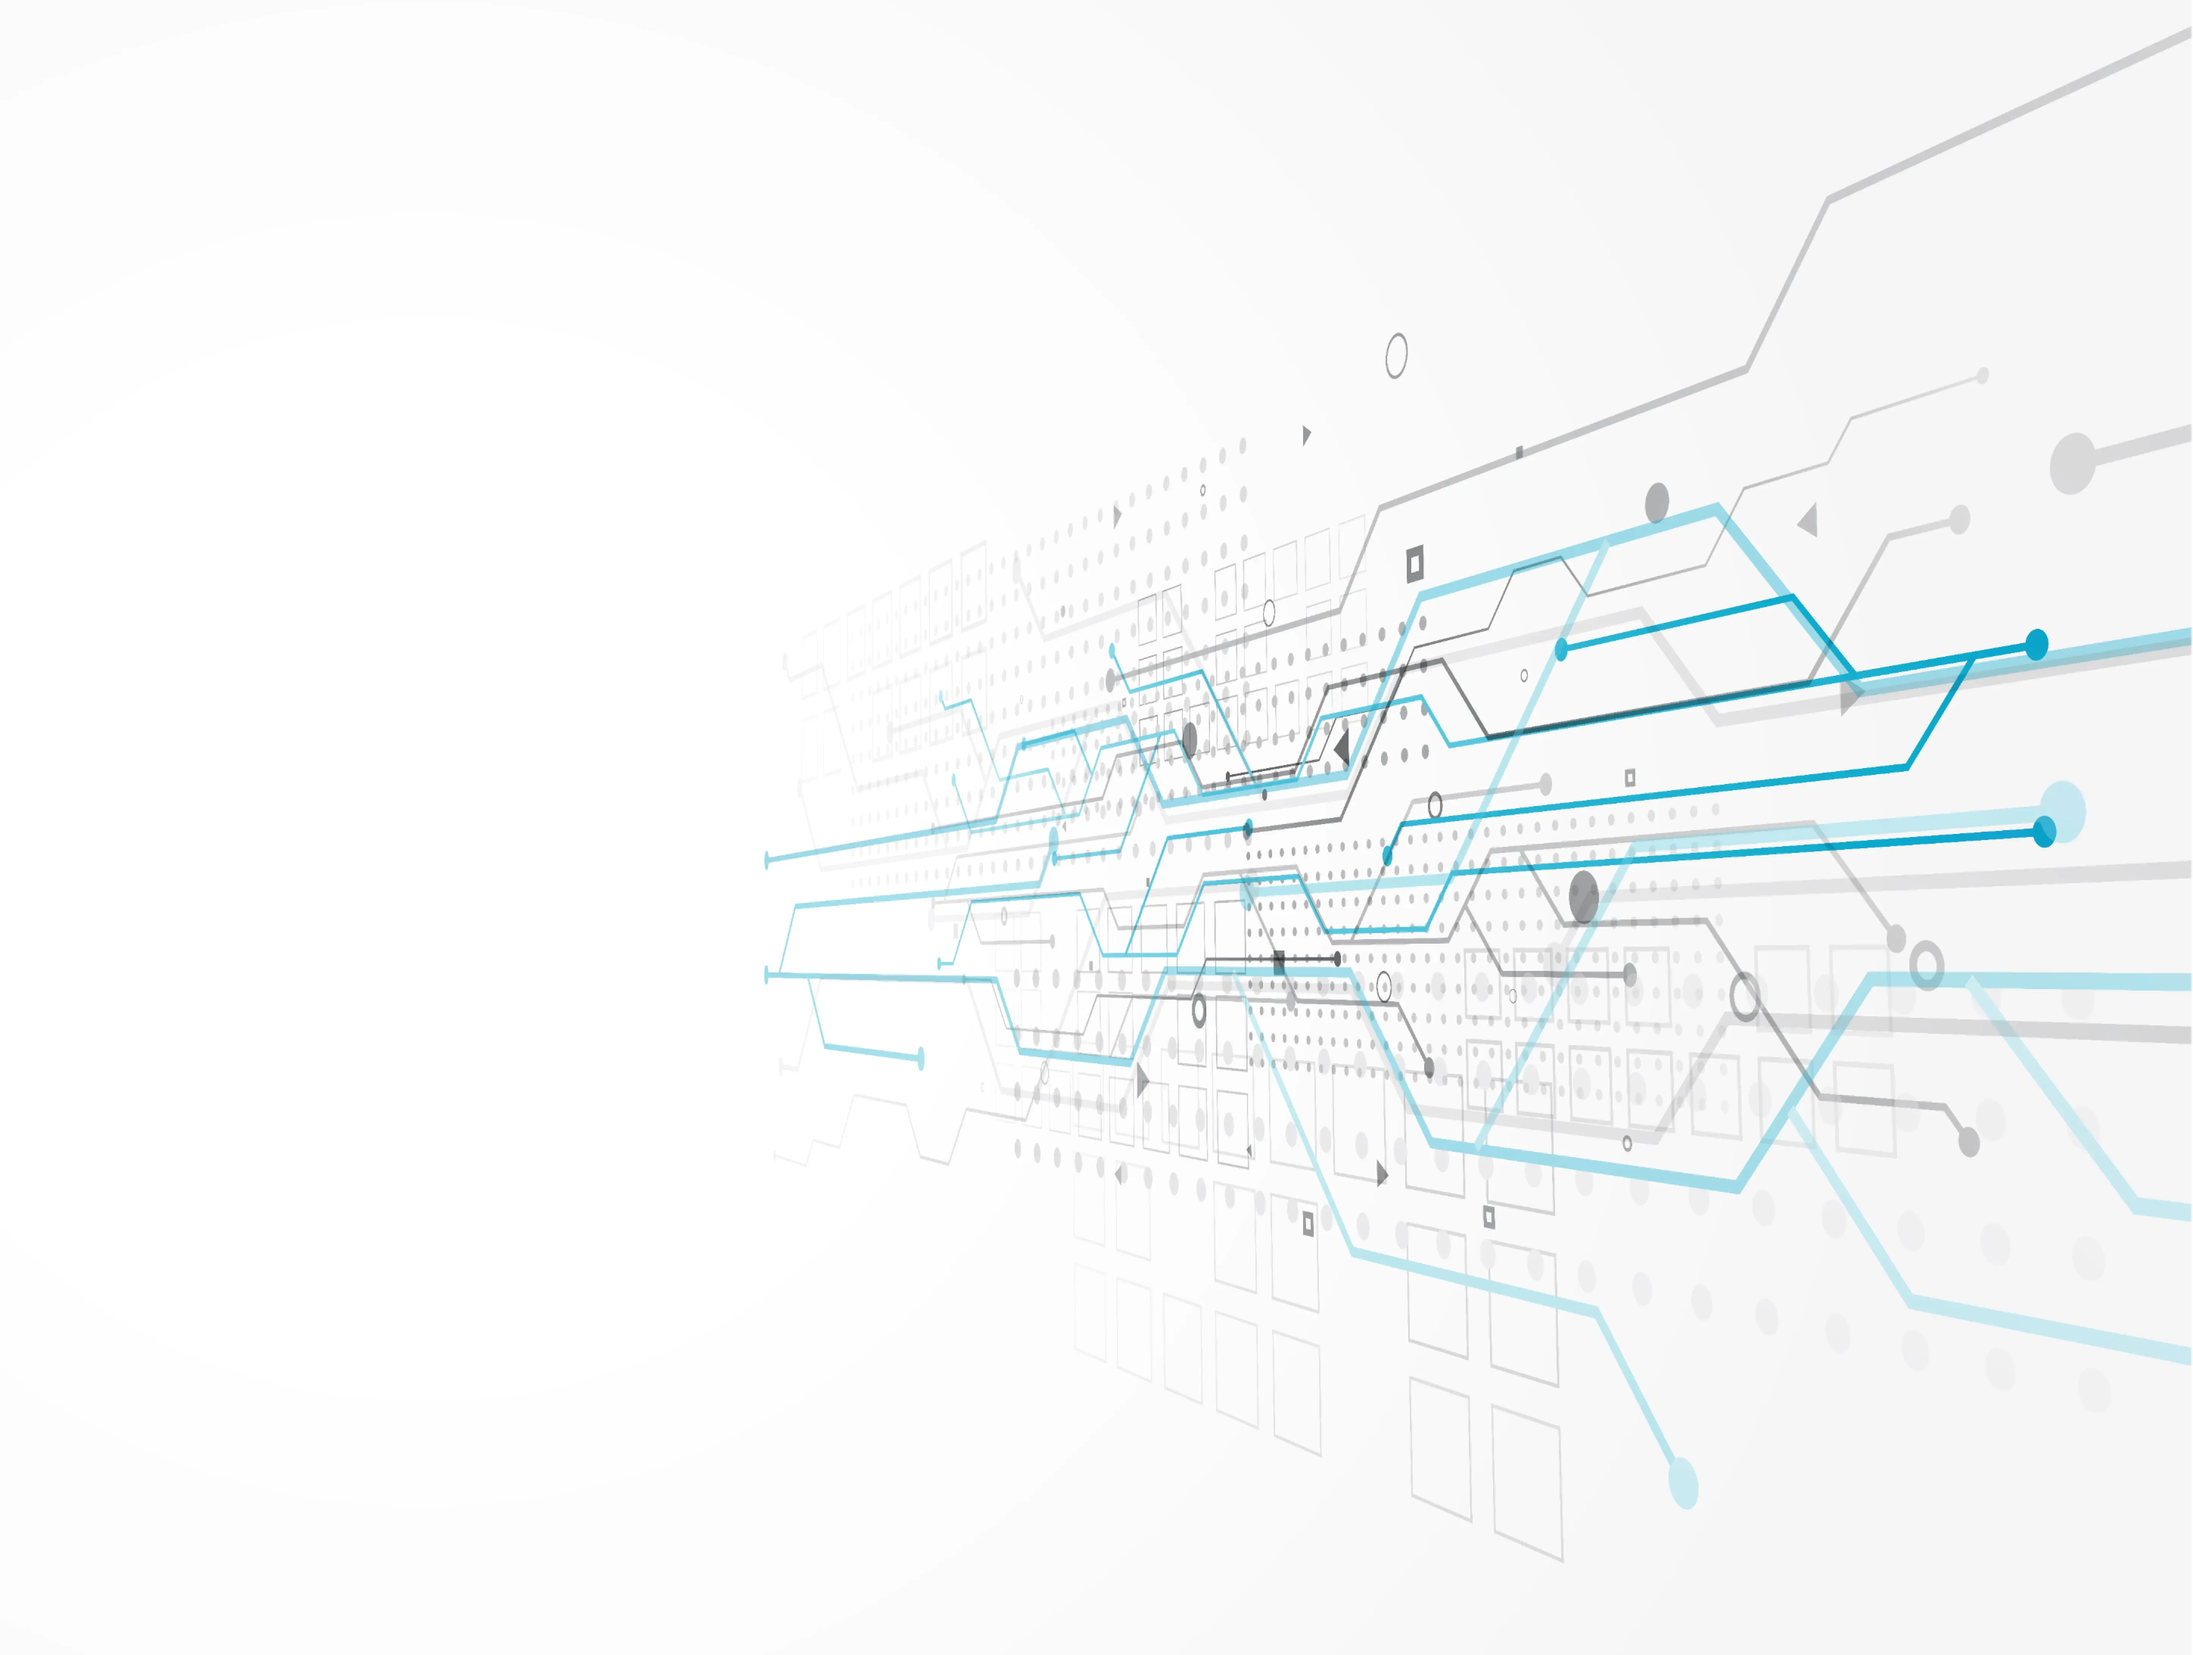
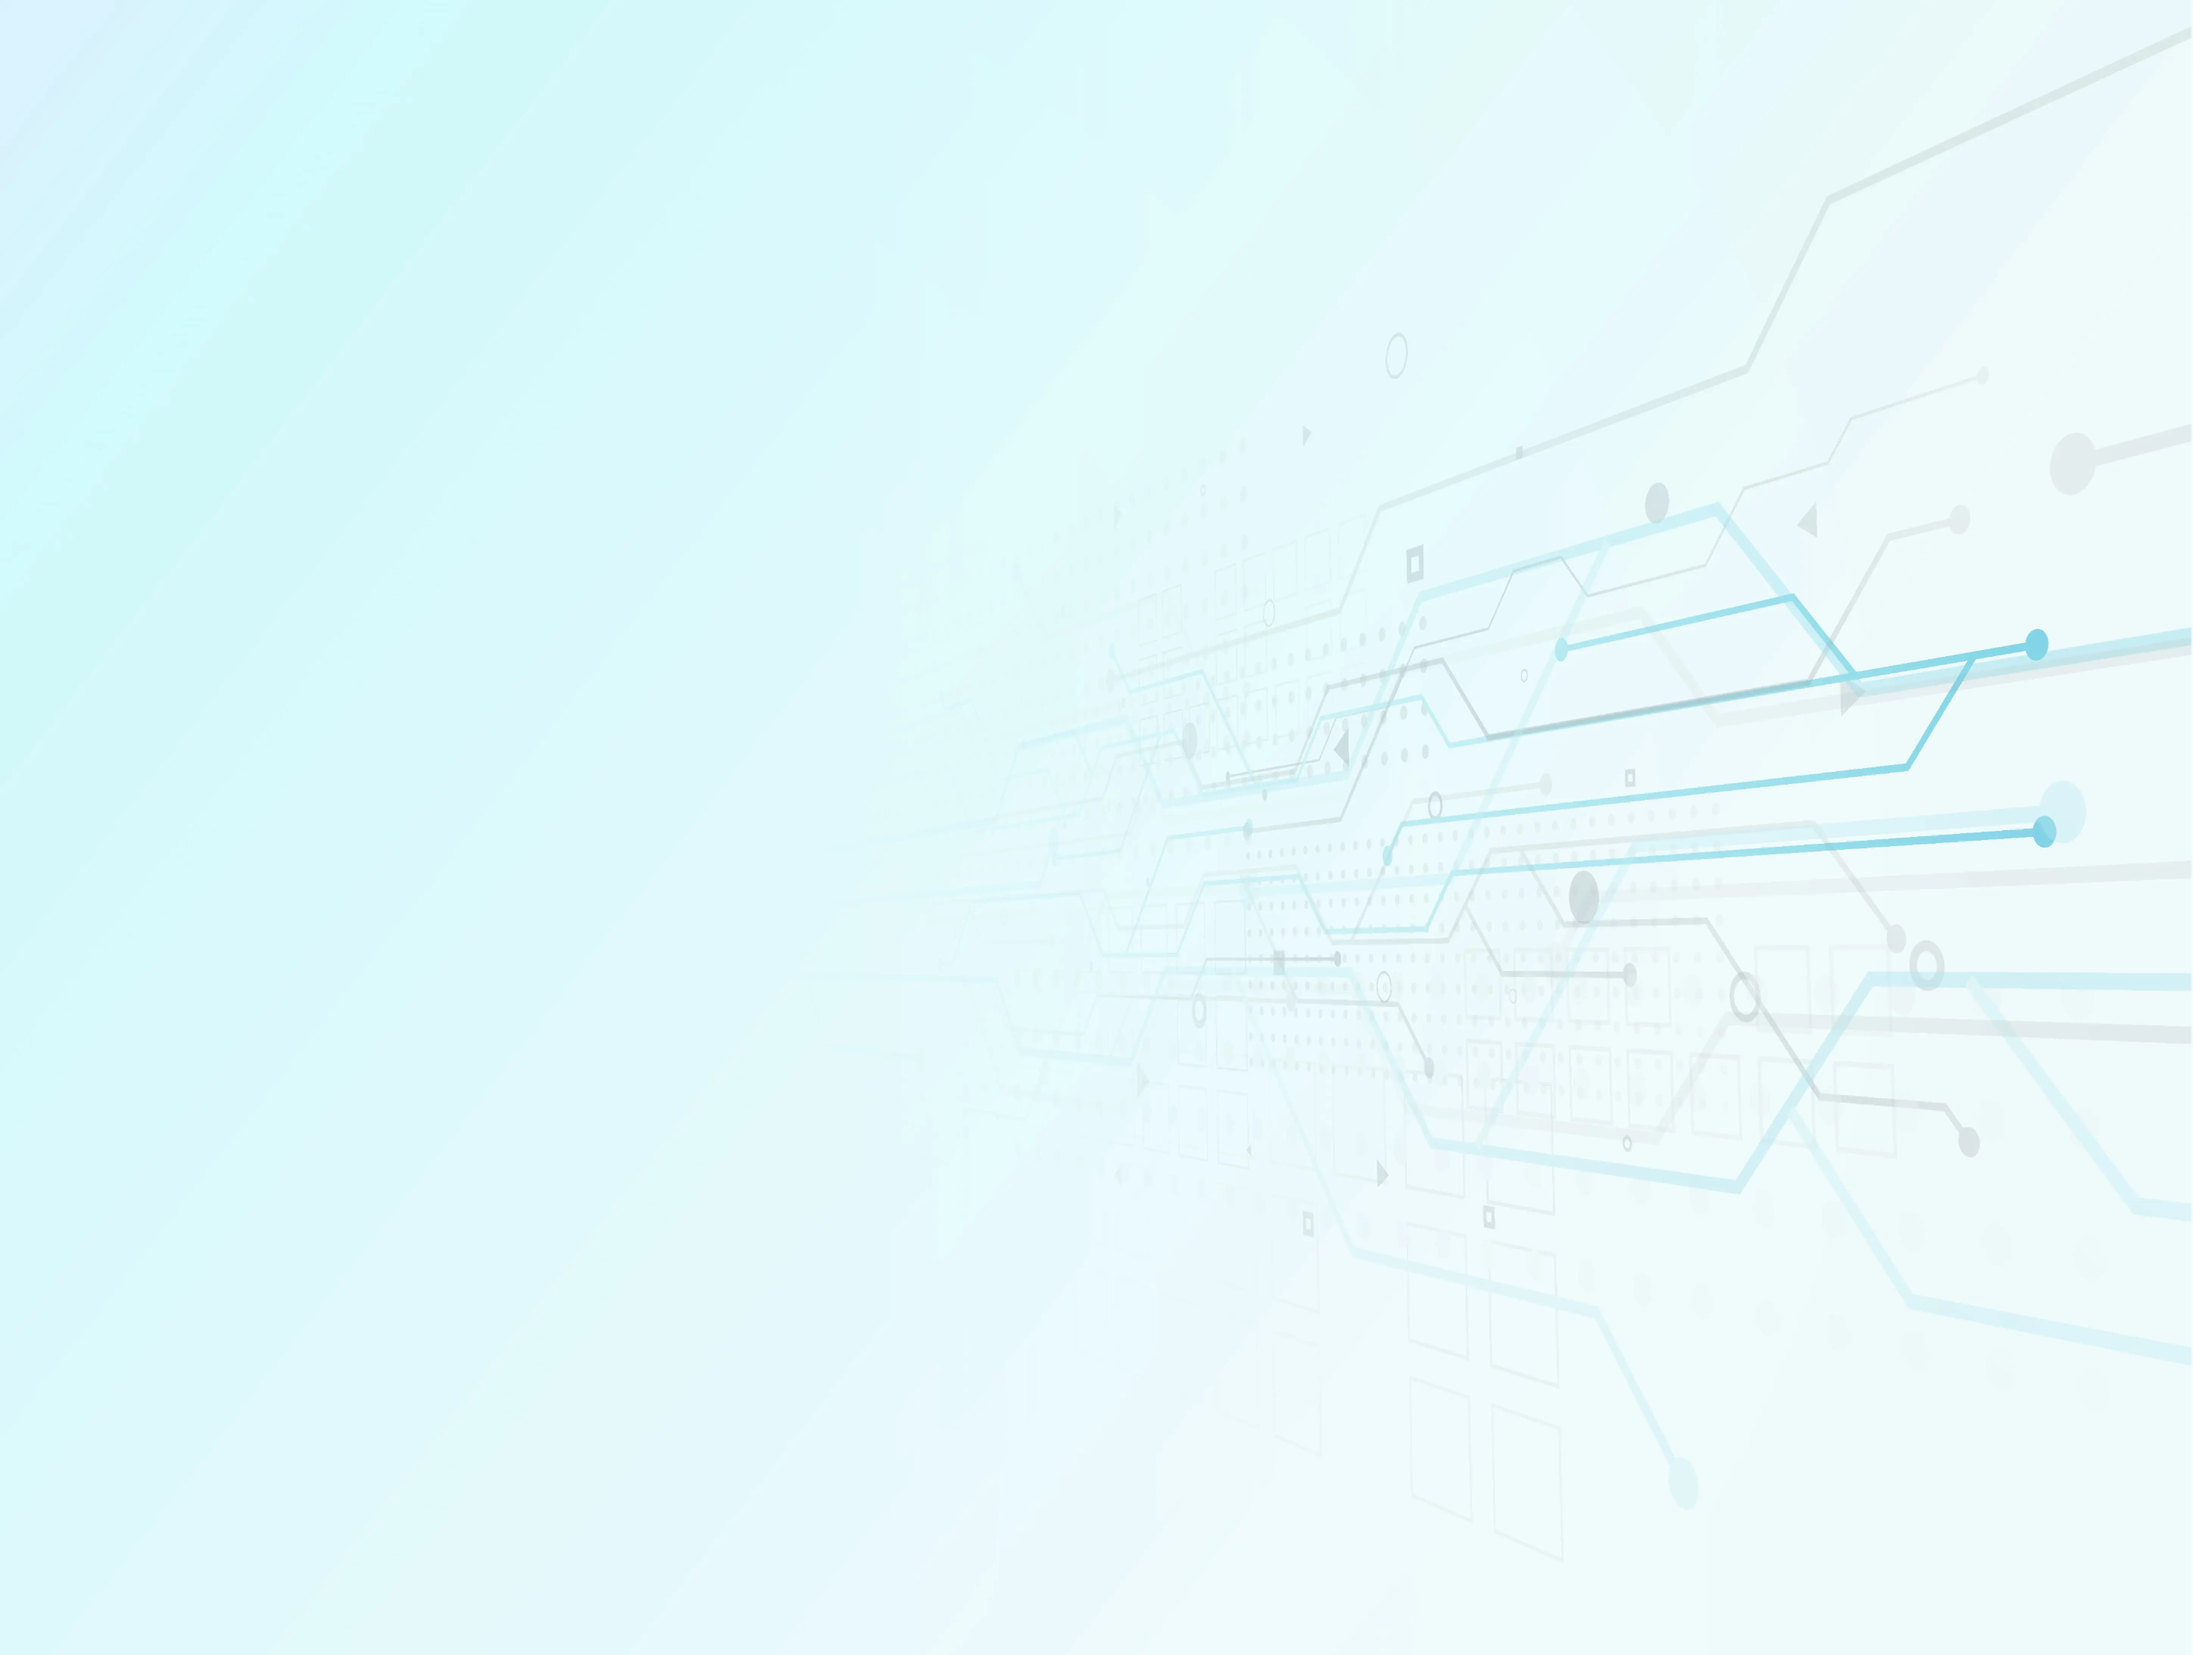
fix-images

diff --git a/src/styles/page.module.css b/src/styles/page.module.css
@@ -110,15 +110,12 @@
 
 @media (min-width: 1280px) {
     :global(.dark) .sectionComponents {
-        background: linear-gradient(89.96deg, #1C2237 41.93%, rgba(28, 34, 55, 0) 99.39%),
-                url('../images/pages/components/layout-dark-2x.jpg') no-repeat fixed center/cover;
+        background: linear-gradient(180deg, rgba(144, 222, 254, 0.2) 0%, rgba(120, 245, 250, 0.2) 59.37%, rgba(120, 245, 250, 0.054) 95.83%), url('../images/pages/components/layout-dark-2x.jpg') no-repeat fixed center/cover;
     }
     
-    @supports (background: linear-gradient(89.96deg, #1C2237 41.93%, rgba(28, 34, 55, 0) 99.39%),
-        url('../images/pages/components/layout-dark-2x.webp')) {
+    @supports (background: linear-gradient(180deg, rgba(144, 222, 254, 0.2) 0%, rgba(120, 245, 250, 0.2) 59.37%, rgba(120, 245, 250, 0.054) 95.83%), url('../images/pages/components/layout-dark-2x.webp')) {
         :global(.dark) .sectionComponents {
-            background: linear-gradient(89.96deg, #1C2237 41.93%, rgba(28, 34, 55, 0) 99.39%),
-                    url('../images/pages/components/layout-dark-2x.webp') no-repeat fixed center/cover;
+            background: linear-gradient(180deg, rgba(144, 222, 254, 0.2) 0%, rgba(120, 245, 250, 0.2) 59.37%, rgba(120, 245, 250, 0.054) 95.83%), url('../images/pages/components/layout-dark-2x.webp') no-repeat fixed center/cover;
         }
     }
 }
